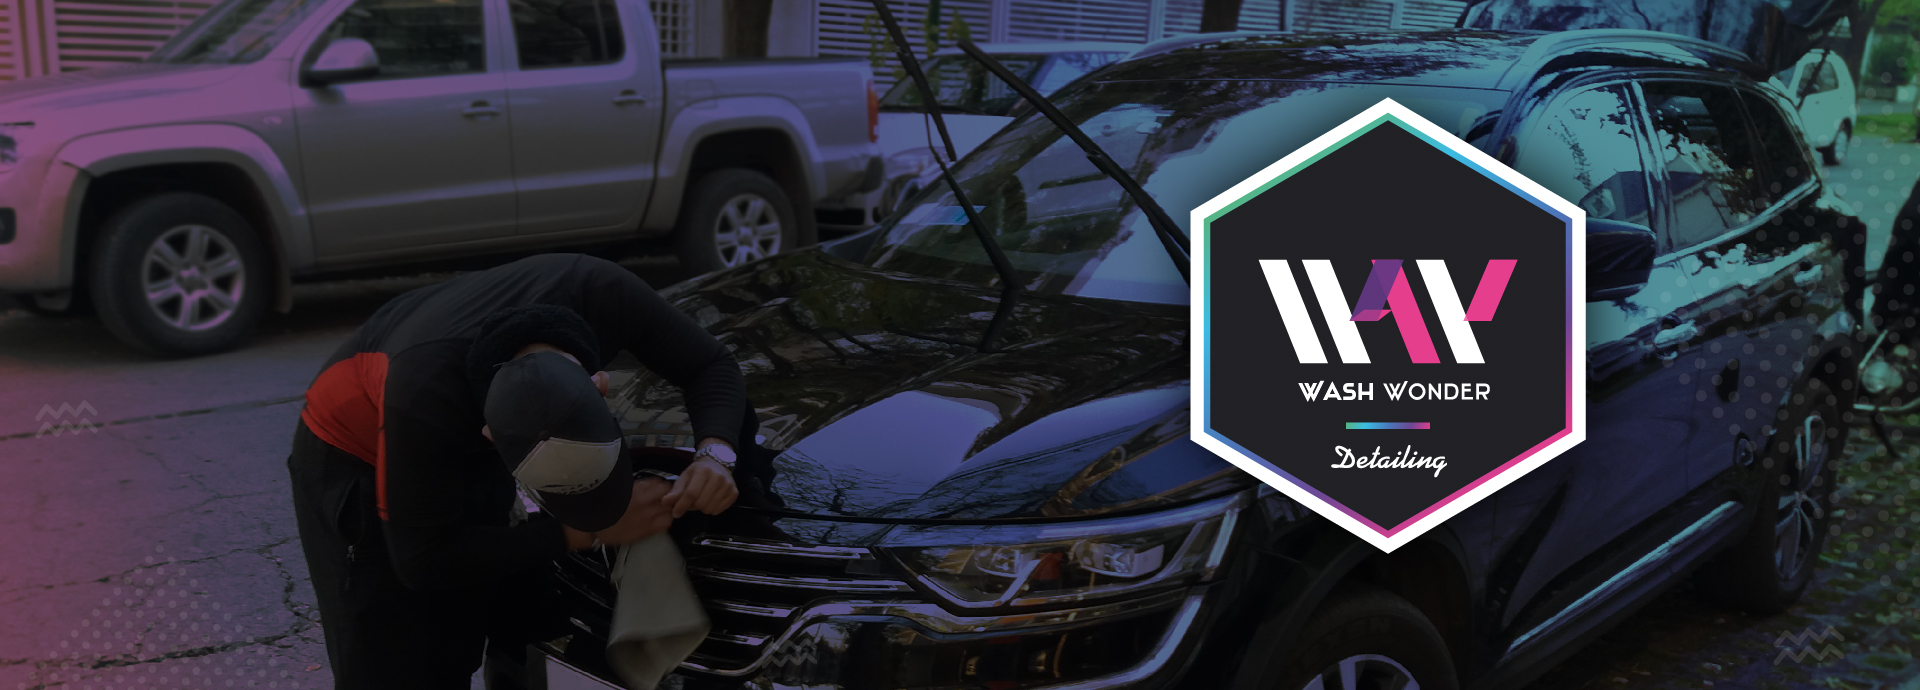
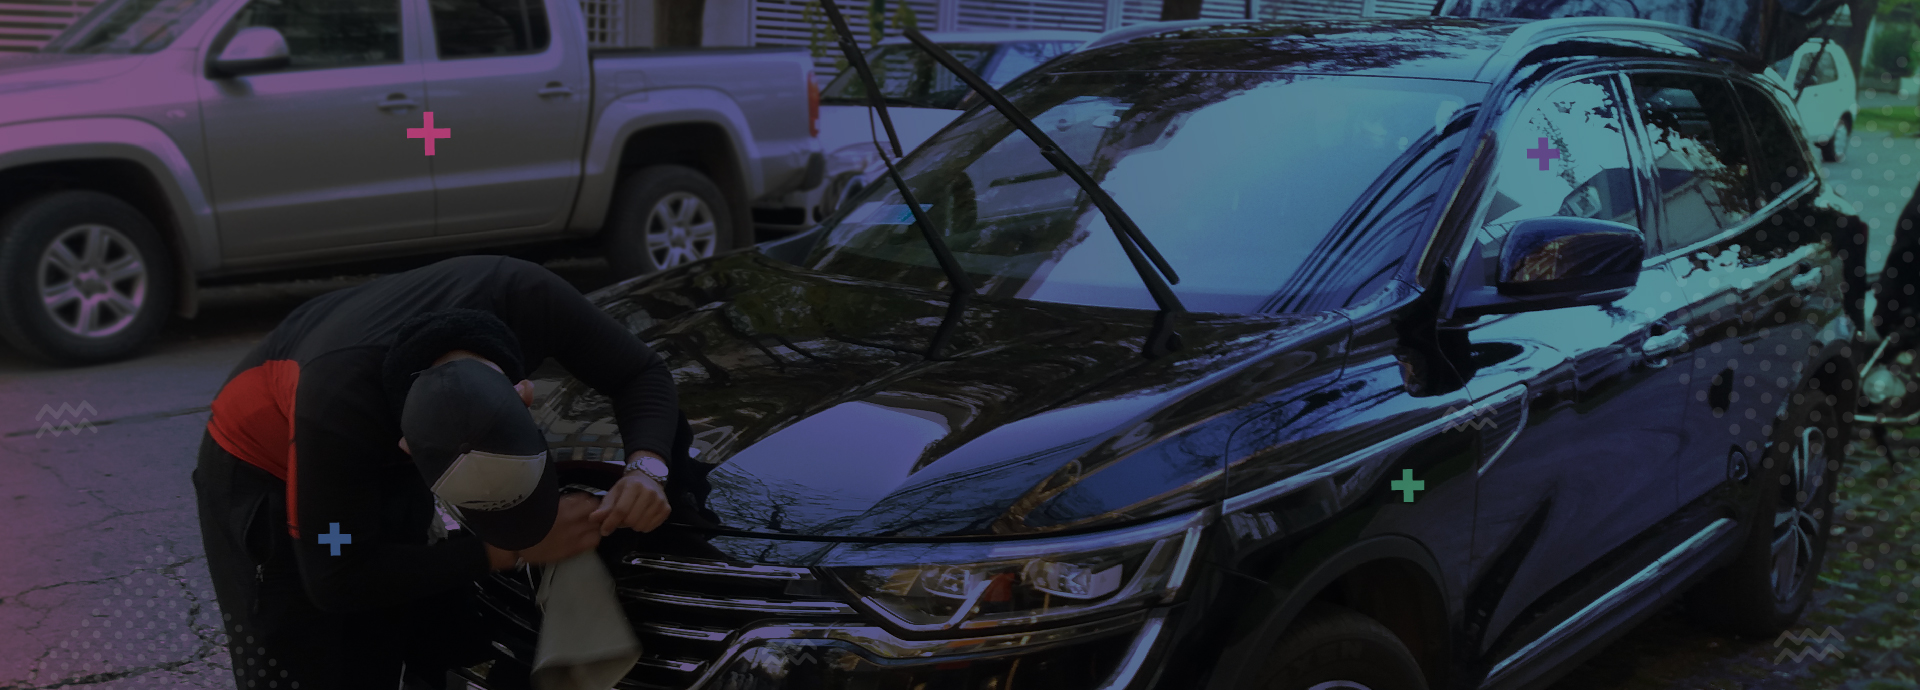
index y carousel

diff --git a/index.html b/index.html
@@ -26,8 +26,7 @@ Proyect by Maiker Obando - Wash Wonder - Bootstrap
                 <a href="index.html" class="d-flex align-items-center text-center">
                     <img class="" src="./assets/logo_ww_blanco.png" width="90Px"><use xlink:href="#bootstrap" />
                 </a>
-                <!-- pages -->
-               
+                <!-- pages -->               
                 <ul class="nav col-md-6 justify-content-center d-none d-xl-flex">
                     <li><a href="index.html" class="nav-link px-3 link-light text-white-50">HOME</a></li>
                     <li><a href="./pages/servicios.html" class="nav-link px-3 link-light text-white-50">SERVICIOS</a></li>
@@ -90,36 +89,39 @@ Proyect by Maiker Obando - Wash Wonder - Bootstrap
             </div>
 
             <div class="carousel-inner">
-                
-                <div class="carousel-item active">
-                    <img class="bd-placeholder-img" width="100%" height="100%" src="./assets/imagenes/banner_home_02.jpg" alt="banner principal" aria-hidden="true" preserveAspectRatio="xMidYMid slice" focusable="false"><rect width="100%" height="100%" fill="#777" />
-                    <div class="container">
-                        <div class="carousel-caption text-start">
-                            <h1 class="ff-ww-Montserrat-bold">Wash Wonder</h1>
-                            <p>Lavado y Detailing Automotriz ...</p>
-                            <p><a class="btn btn-lg btn-primary" href="./pages/servicios.html">Saber más</a></p>
+                <div>
+                    <div class="carousel-item active">
+                        <img id="logo-hexagonal-ww" src="./assets/logo_ww_hexagonal.png" class="" alt="Logo Hexagonal WW">
+                        <div class="ww-placeholder-banner01"></div>                       
+                        <div class="container">
+                            <div class="carousel-caption text-start">
+                                <h1 class="ff-ww-Montserrat-bold">Wash Wonder</h1>
+                                <p>Lavado y Detailing Automotriz ...</p>
+                                <p><a class="btn btn-md btn-primary " href="./pages/servicios.html">Saber más</a></p>
+                            </div>
                         </div>
                     </div>
                 </div>
+                
 
                 <div class="carousel-item">
-                    <img class="bd-placeholder-img" width="100%" height="100%" src="./assets/imagenes/banner_home_03.jpg" alt="banner principal" aria-hidden="true" preserveAspectRatio="xMidYMid slice" focusable="false"><rect width="100%" height="100%" fill="#777" />
+                    <div class="ww-placeholder-banner02"></div>
                     <div class="container">
                         <div class="carousel-caption">
                             <h1 class="ff-ww-Montserrat-bold">Wonder Shop</h1>
                             <p>Variedad de producto de las mejores marcas.</p>
-                            <p><a class="btn btn-lg btn-primary" href="./pages/wonder-shop.html">Ver productos</a></p>
+                            <p><a class="btn btn-md btn-primary" href="./pages/wonder-shop.html">Ver productos</a></p>
                         </div>
                     </div>
                 </div>
                         
                 <div class="carousel-item">
-                    <img class="bd-placeholder-img" width="100%" height="100%" src="./assets/imagenes/banner_home_04.jpg" alt="banner principal" aria-hidden="true" preserveAspectRatio="xMidYMid slice" focusable="false"><rect width="100%" height="100%" fill="#777" />
+                    <div class="ww-placeholder-banner03"></div>
                     <div class="container">
                         <div class="carousel-caption text-end">
                             <h1 class="ff-ww-Montserrat-bold">Curos y Talleres</h1>
                             <p>Certificate y aprende con los mejores.</p>
-                            <p><a class="btn btn-lg btn-primary" href="./pages/cursos.html">Ver cursos</a></p>
+                            <p><a class="btn btn-md btn-primary" href="./pages/cursos.html">Ver cursos</a></p>
                         </div>
                     </div>
                 </div>
@@ -139,26 +141,26 @@ Proyect by Maiker Obando - Wash Wonder - Bootstrap
         <!-- Carrusel -->
 
         <!-- Tarjetas en fila -->
-        <section class="container marketing my-5 centrar-textaling">
+        <section class="container marketing my-5 text-center">
             <div class="row">
                 <div class="col-lg-4">
                     <img class="bd-placeholder-img rounded-circle" width="140" height="140" src="./assets/imagenes/500x500/500x500_01.jpg" alt="Servicios WW" />
                     <h2 class="fw-bold text_color-ww-azul">Servicios</h2>
                     <p>Te ofrecemos los mejores servicios en Detailing para autos de Alta Gama, Clásicos, y los Consentidos de la casa.</p>
-                    <p><a class="btn btn-secondary bt_bg_color-verde" href="./pages/servicios.html">Más info &raquo;</a></p>
+                    <p><a class="btn btn-secondary bg_color-ww-verde" href="./pages/servicios.html">Más info &raquo;</a></p>
                 </div>
                 <div class="col-lg-4">
                     <img class="bd-placeholder-img rounded-circle" width="140" height="140" src="./assets/imagenes/500x500/500x500_02.jpg" alt="Servicios WW" />
         
                     <h2 class="fw-bold text_color-ww-azul">Wonder Shop</h2>
                     <p>Las mejores marcas y productos a tu disposición a precios accesibles, y envio a todo el país.</p>
-                    <p><a class="btn btn-secondary bt_bg_color-verde" href="./pages/wonder-shop.html">Más info &raquo;</a></p>
+                    <p><a class="btn btn-secondary bg_color-ww-verde" href="./pages/wonder-shop.html">Más info &raquo;</a></p>
                 </div>
                 <div class="col-lg-4">
                     <img class="bd-placeholder-img rounded-circle" width="140" height="140" src="./assets/imagenes/500x500/500x500_03.jpg" alt="Servicios WW" />
                     <h2 class="fw-bold text_color-ww-azul">Cursos</h2>
                     <p>Aprende con nuestro equipo certificados y conviertete en un Master Detailing con los cursos y talleres que tenemos a tu disposición.</p>
-                    <p><a class="btn btn-secondary bt_bg_color-verde" href="./pages/cursos.html">Más info &raquo;</a></p>
+                    <p><a class="btn btn-secondary bg_color-ww-verde" href="./pages/cursos.html">Más info &raquo;</a></p>
                 </div>
             </div>
         </section>

diff --git a/css/style.css b/css/style.css
@@ -39,6 +39,18 @@ h1 {
 
 
 /* FRAMEWORK - WashWonder */
+.ff-ww-Montserrat-black {
+    font-family: "Montserrat-Black";
+}
+
+.ff-ww-Montserrat-bold {
+    font-family: "Montserrat-Bold";
+}
+
+.ff-ww-Montserrat-ligth {
+    font-family: "Montserrat-Ligth";
+}
+
 .bg_color-ww-fucsia {
     background-color: #ec1492;
 }
@@ -77,18 +89,6 @@ h1 {
 
 .text_color-ww-azul {
     color: #4D75B8;
-}
-
-.ff-ww-Montserrat-black {
-    font-family: "Montserrat-Black";
-}
-
-.ff-ww-Montserrat-bold {
-    font-family: "Montserrat-Bold";
-}
-
-.ff-ww-Montserrat-ligth {
-    font-family: "Montserrat-Ligth";
 }
 
 .bc-ww-fucsia {
@@ -135,9 +135,68 @@ h1 {
     filter: brightness(100%) saturate(0);
 }
 
-.centrar-textaling {
-    text-align: center;
+
+/* banners carousel */
+.ww-placeholder-banner01 {
+    background-image: url('../assets/imagenes/banner_home_02.jpg');
+    background-size: cover;   
+    background-position: center;  
+    height: 600px;
+    fill: #777;    
 }
+
+#logo-hexagonal-ww {
+    width: 360px;
+    display: flex;
+    position: absolute;
+    top: 15%;
+    right: 10vh;   
+    transform: rotateY(90deg);
+    animation: logo-hexa-ww 2s both;
+    transition: all 2s ease;
+}
+
+#logo-hexagonal-ww:hover {
+    scale: 105%;
+}
+
+@keyframes logo-hexa-ww {
+    0% {
+        transform: rotateY(90deg);
+    }
+
+    35% {
+        transform: rotateY(90deg);
+    }
+
+    70% {
+        transform: rotateY(0deg);
+    }
+
+    100% {
+        transform: rotateY(0deg);
+    }
+}
+
+
+
+.ww-placeholder-banner02 {
+    background-image: url('../assets/imagenes/banner_home_03.jpg');
+    background-size: cover;   
+    background-position: center;  
+    height: 600px;
+    fill: rgb(71, 71, 71);    
+}
+
+.ww-placeholder-banner03 {
+    background-image: url('../assets/imagenes/banner_home_04.jpg');
+    background-size: cover;   
+    background-position: center;  
+    height: 600px;
+    fill: rgb(74, 74, 74);    
+}
+/* banners carousel */
+
 
 .carousel-control-next-icon {
     filter: invert(50%) sepia(60%) saturate(9500%) hue-rotate(318deg) brightness(105%) contrast(85%);
@@ -147,14 +206,10 @@ h1 {
     filter: invert(50%) sepia(60%) saturate(9500%) hue-rotate(318deg) brightness(105%) contrast(85%);
 }
 
+
 .btn-primary {
     background-color: #ec1492;
     border-color: #482464;
-}
-
-.bt_bg_color-verde {
-    background-color: #E63E8E;
-    border: #482464;
 }
 
 
@@ -164,18 +219,15 @@ h1 {
 }
 
 
-
-
-
 .line-gradient-solid {
-    /* por si no soporta gradient el navegador */
+    /* por si no llegara a soportar gradient el navegador */
     background-color: #482464;
     background-image: linear-gradient(to left, #E63E8E, #6D4795, #4A77BA, #3CBDE4, #56B584);
     height: 5px;
 }
 
 .line-gradient {
-    /* por si no soporta gradient el navegador */
+    /* por si no llegara a soportar gradient el navegador */
     background-color: #482464;
     background-image: linear-gradient(to left, #E63E8E, #6D4795, #4A77BA, #3CBDE4, #56B584);
     height: 6px;
@@ -236,8 +288,26 @@ h1 {
         display: flex;
         position: fixed;
         z-index: 5;
-        bottom: 8px;
+        bottom: 4rem;
         right: 8px;
+    }
+
+    .ww-placeholder-banner01 {
+        height: 400px;          
+    }
+    
+    .ww-placeholder-banner02 {
+        height: 400px;          
+    }
+   
+    .ww-placeholder-banner03 {
+        height: 400px;          
+    }
+    
+    #logo-hexagonal-ww {
+        width:150px;
+        top: 2vh;
+        left: 15%;         
     }
 }
 

diff --git a/pages/cursos.html b/pages/cursos.html
@@ -25,8 +25,7 @@ Proyect by Maiker Obando - Wash Wonder - Bootstrap
                 <a href="../index.html" class="d-flex align-items-center mb-2 mb-md-0 text-dark">
                     <img class="" src="../assets/logo_ww_blanco.png" width="90Px"><use xlink:href="#bootstrap" />
                 </a>
-                <!-- pages -->
-               
+                <!-- pages -->               
                 <ul class="nav col-md-6 justify-content-center d-none d-xl-flex">
                     <li><a href="../index.html" class="nav-link px-3 link-light text-white-50 ">HOME</a></li>
                     <li><a href="servicios.html" class="nav-link px-3 link-light text-white-50 ">SERVICIOS</a></li>
@@ -95,8 +94,7 @@ Proyect by Maiker Obando - Wash Wonder - Bootstrap
                             <h4 class="my-0 fw-normal">Junior</h4>
                         </div>
                         <div class="card-body">
-                            <h1 class="card-title pricing-card-title">$20</h1>
-                            
+                            <h1 class="card-title pricing-card-title">$20</h1>                            
                             <ul class="list-unstyled mt-3 mb-4">
                                 <li>1 Día</li>
                                 <li>3 Hrs / diaria</li>

diff --git a/pages/contactos.html b/pages/contactos.html
@@ -25,8 +25,7 @@ Proyect by Maiker Obando - Wash Wonder - Bootstrap
                 <a href="../index.html" class="d-flex align-items-center mb-2 mb-md-0 text-dark">
                     <img class="" src="../assets/logo_ww_blanco.png" width="90Px"><use xlink:href="#bootstrap" />
                 </a>
-                <!-- pages -->
-               
+                <!-- pages -->               
                 <ul class="nav col-md-6 justify-content-center d-none d-xl-flex">
                     <li><a href="../index.html" class="nav-link px-3 link-light text-white-50 ">HOME</a></li>
                     <li><a href="servicios.html" class="nav-link px-3 link-light text-white-50 ">SERVICIOS</a></li>

diff --git a/pages/servicios.html b/pages/servicios.html
@@ -25,8 +25,7 @@ Proyect by Maiker Obando - Wash Wonder - Bootstrap
                 <a href="../index.html" class="d-flex align-items-center mb-2 mb-md-0 text-dark">
                     <img class="" src="../assets/logo_ww_blanco.png" width="90Px"><use xlink:href="#bootstrap" />
                 </a>
-                <!-- pages -->
-               
+                <!-- pages -->               
                 <ul class="nav col-md-6 justify-content-center d-none d-xl-flex">
                     <li><a href="../index.html" class="nav-link px-3 link-light text-white-50 ">HOME</a></li>
                     <li><a href="servicios.html" class="nav-link px-3 link-light text-white-50 ">SERVICIOS</a></li>

diff --git a/pages/wonder-shop.html b/pages/wonder-shop.html
@@ -25,8 +25,7 @@ Proyect by Maiker Obando - Wash Wonder - Bootstrap
                 <a href="../index.html" class="d-flex align-items-center mb-2 mb-md-0 text-dark">
                     <img class="" src="../assets/logo_ww_blanco.png" width="90Px"><use xlink:href="#bootstrap" />
                 </a>
-                <!-- pages -->
-               
+                <!-- pages -->               
                 <ul class="nav col-md-6 justify-content-center d-none d-xl-flex">
                     <li><a href="../index.html" class="nav-link px-3 link-light text-white-50 ">HOME</a></li>
                     <li><a href="servicios.html" class="nav-link px-3 link-light text-white-50 ">SERVICIOS</a></li>
